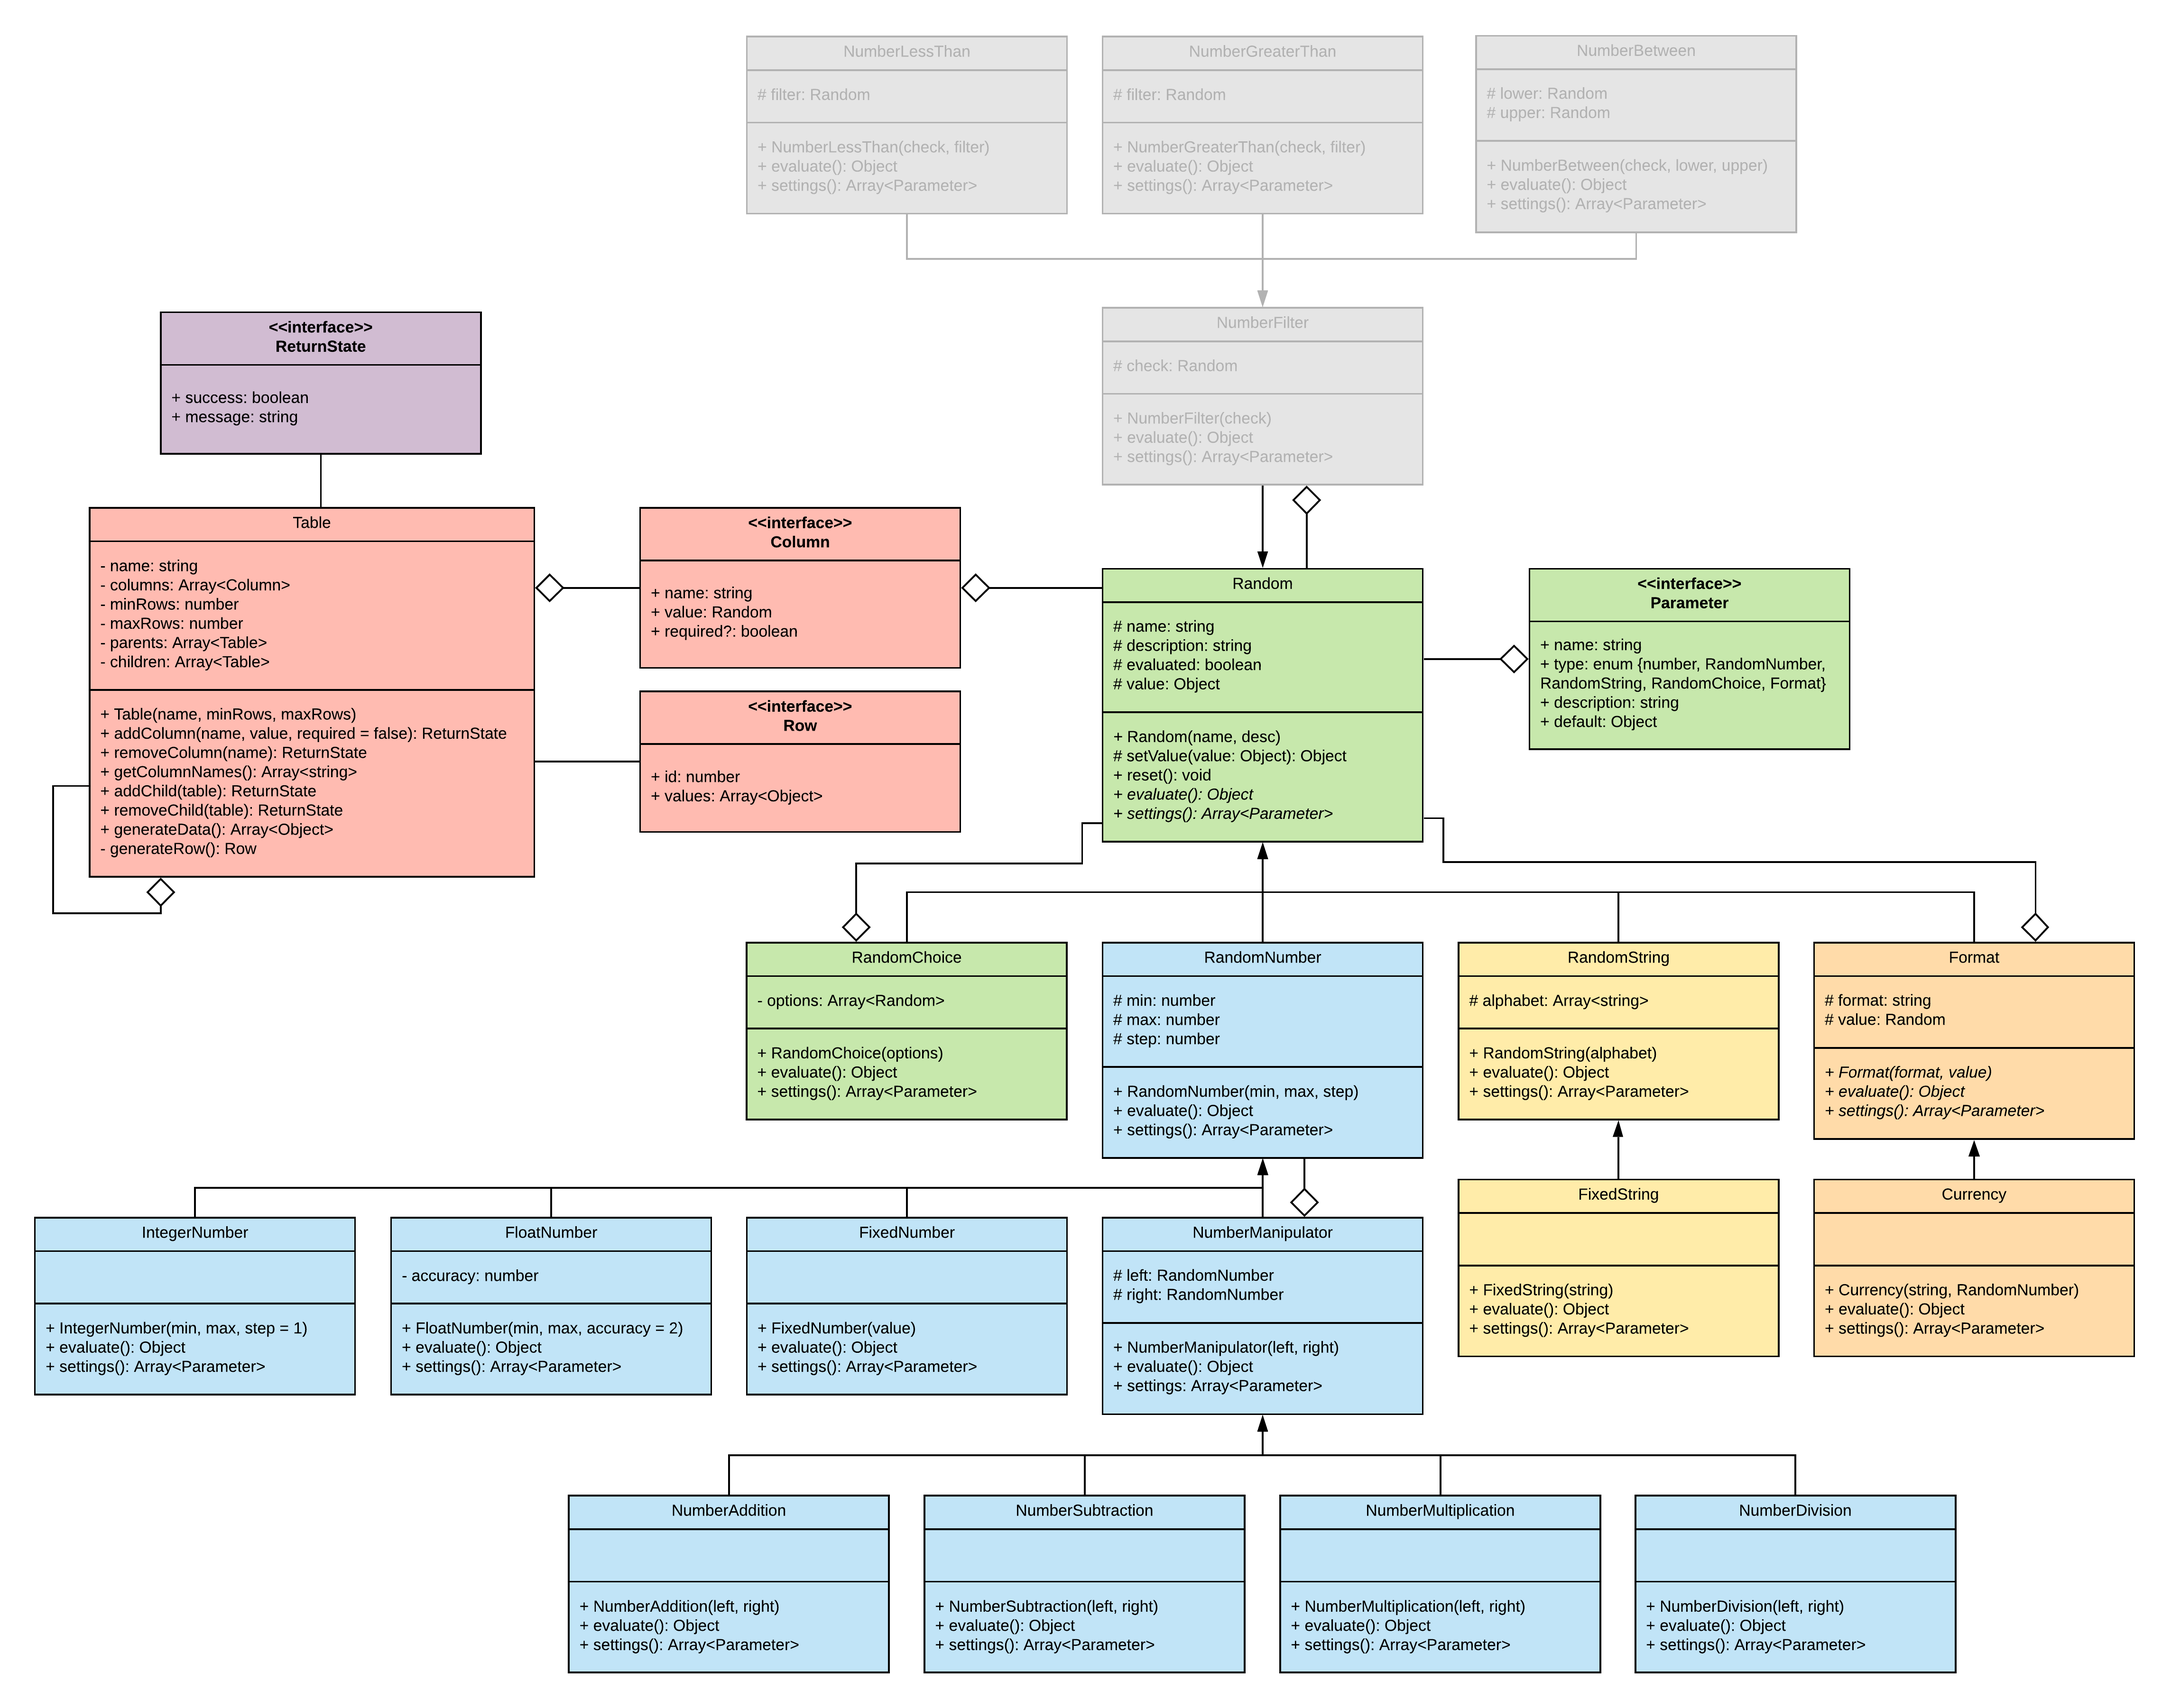
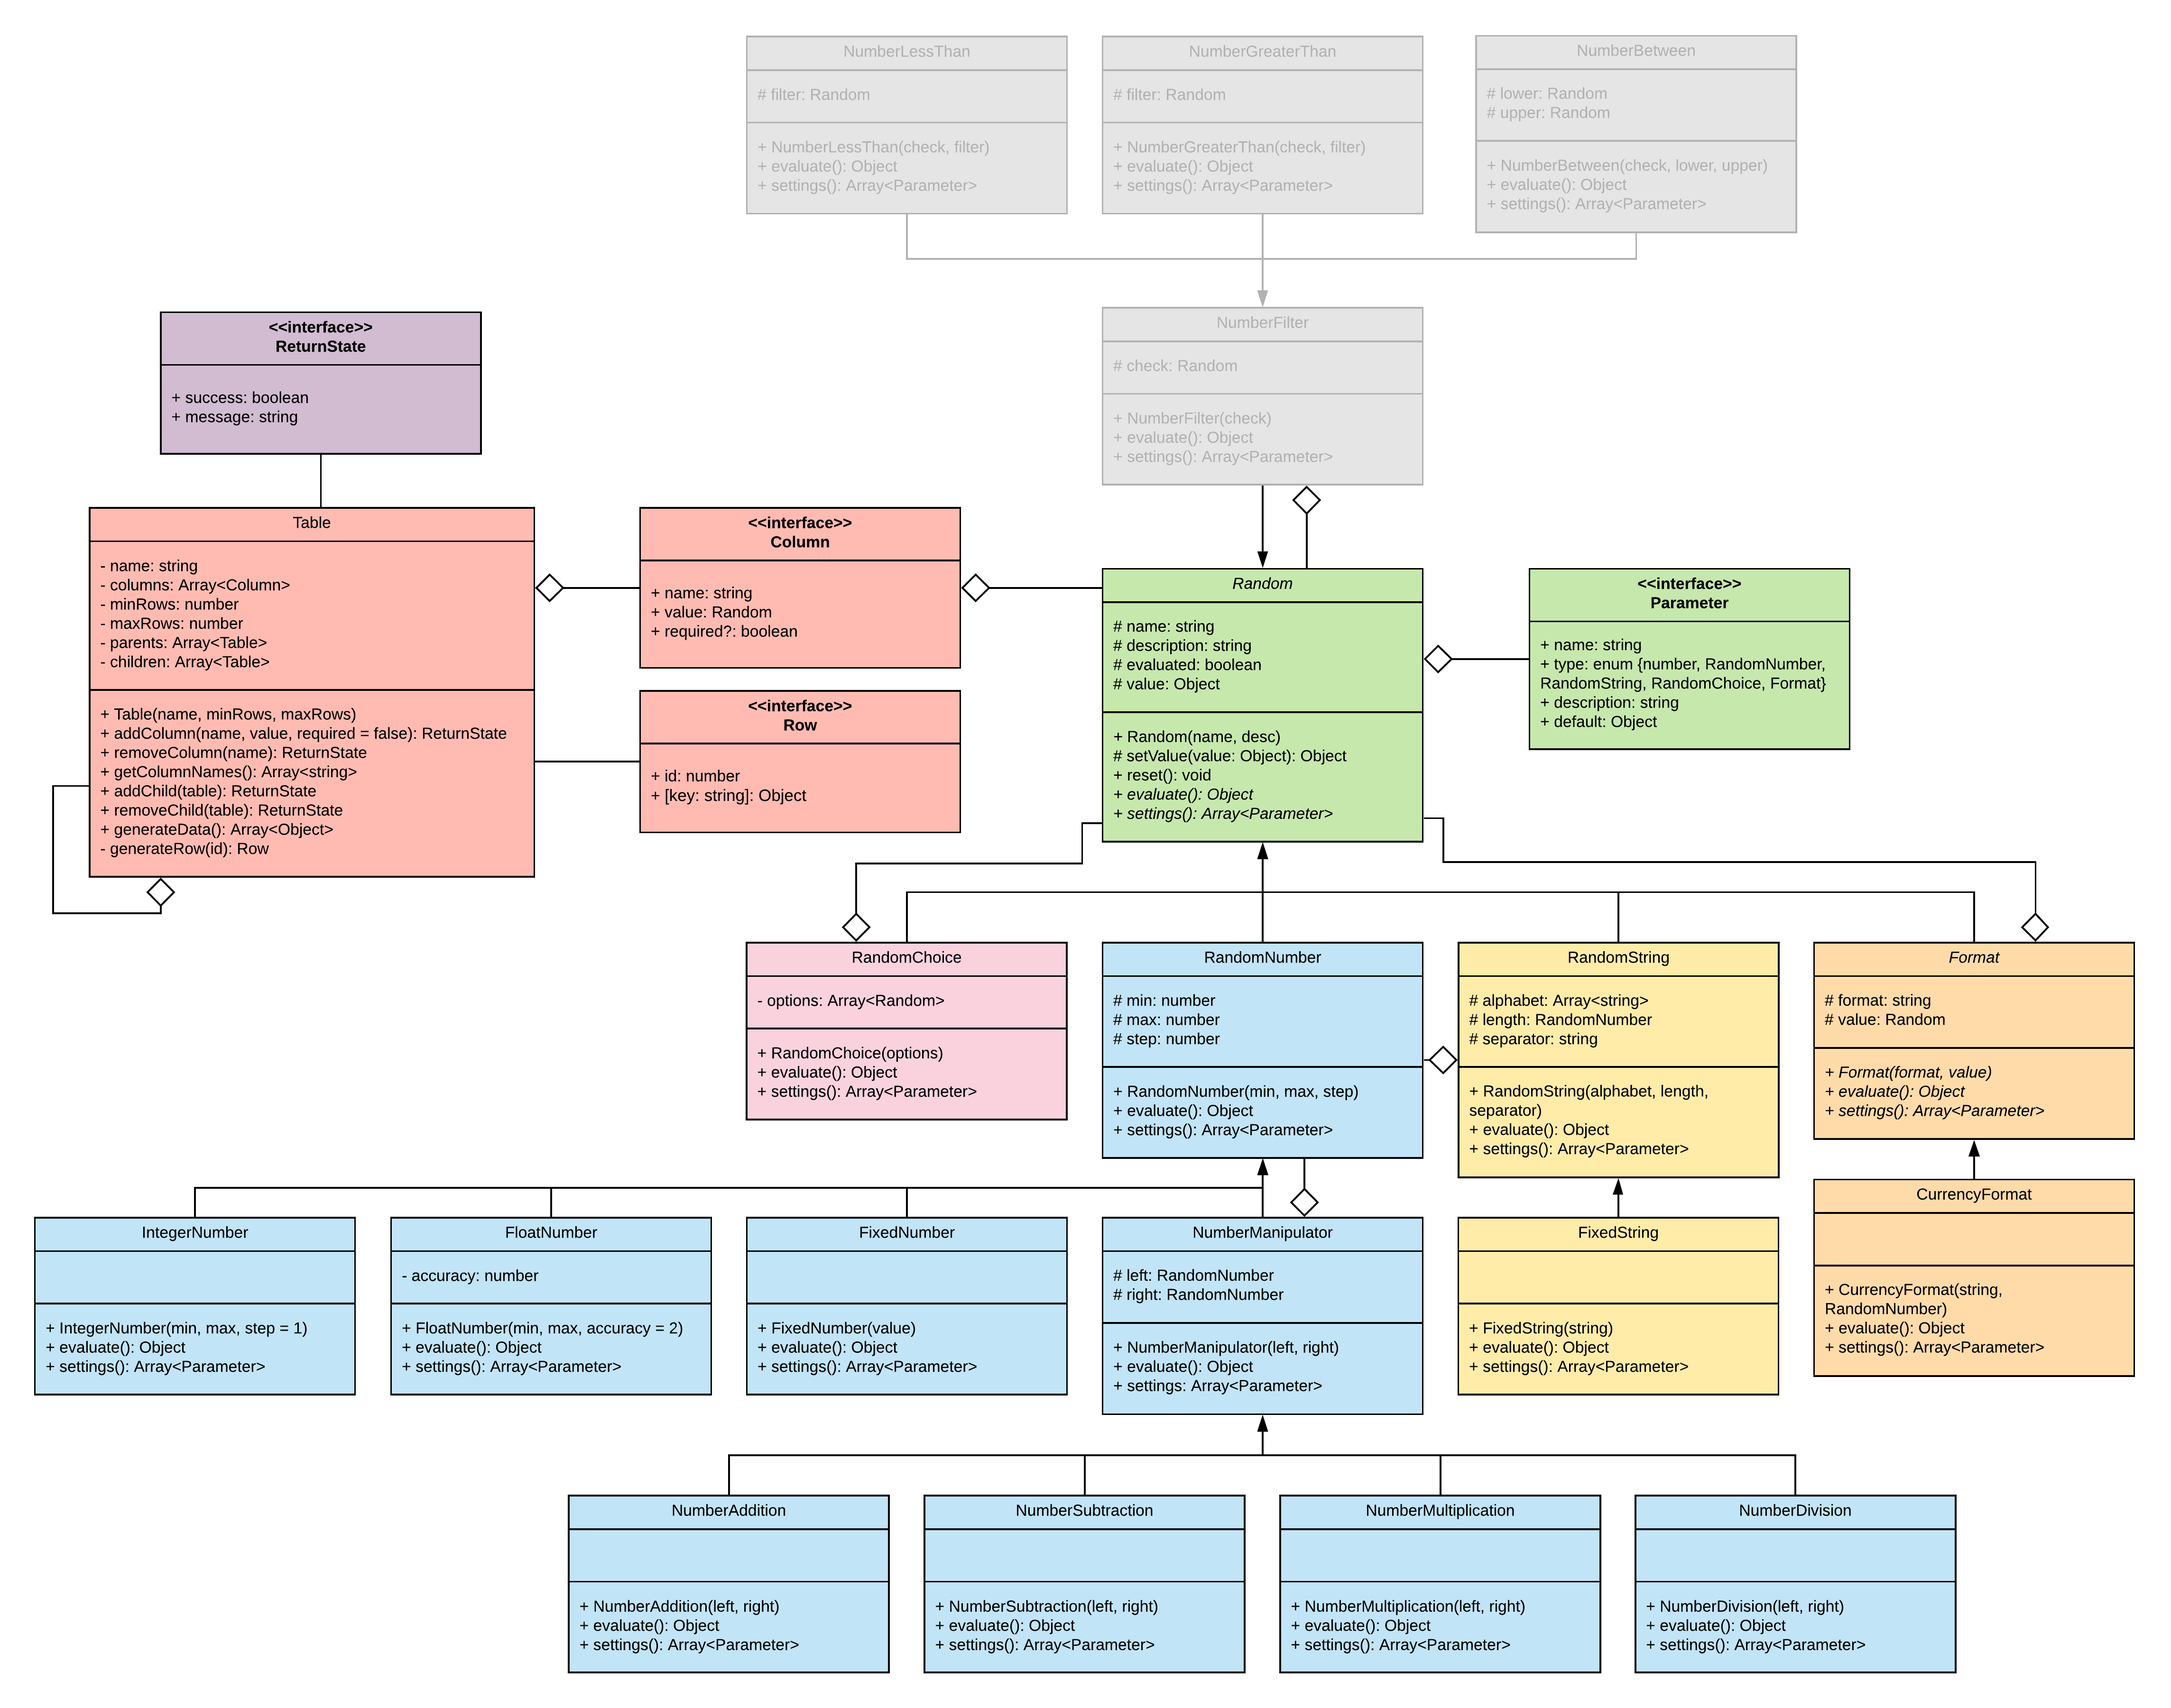
Implemented all the direct derived classes of Random

Changed region(s): [[0.6561, 0.5908, 0.9998, 0.8395], [0.3437, 0.5286, 0.4999, 0.653], [0.3124, 0.4353, 0.3437, 0.4664]]

diff --git a/src/app/models/strings/random-string.ts b/src/app/models/strings/random-string.ts
@@ -1,0 +1,41 @@
+import { Random } from '../random';
+import { Parameter, DataType } from 'src/app/interfaces/parameter';
+import { RandomNumber } from '../numbers/random-number';
+
+export class RandomString extends Random{
+
+  constructor(
+    protected alphabet: Array<string>,
+    protected length: RandomNumber,
+    protected separator: string
+  ) {
+    super('RandomString', 'Creates a random string based on its alphabet')
+  }
+
+  public evaluate(): Object {
+    let length: number = Number(this.length.evaluate());
+    let generated: string = '';
+    let index: number = 0;
+    for (let i = 0; i < length; i++) {
+      index = Math.round(Math.random() * this.alphabet.length - 1);
+      if (index > this.alphabet.length - 1) {
+        index = this.alphabet.length - 1
+      }
+      generated += this.alphabet[index];
+    }
+    return this.setValue(generated);
+  }
+
+  public settings(): Array<Parameter> {
+    return [
+      { name: 'alphabet', type: DataType.string, list: true, description: 'Symbols (characters or strings) to use when creating the string', default: ['a','b','c']},
+      { name: 'length', type: DataType.RandomNumber, list: false, description: 'Number of symbols to concatenate', default: new RandomNumber(4,6,1)},
+      { name: 'separator', type: DataType.string, list: false, description: 'Character or string to put between the concatenated symbols', default: ''}
+    ];
+  }
+
+  public reset(): void {
+    super.reset();
+    this.length.reset();
+  }
+}

diff --git a/src/app/models/formats/currency-format.ts b/src/app/models/formats/currency-format.ts
@@ -1,0 +1,33 @@
+import { Format } from './format';
+import { RandomNumber } from '../numbers/random-number';
+import { Parameter, DataType } from 'src/app/interfaces/parameter';
+
+export class CurrencyFormat extends Format{
+
+  constructor(
+    protected symbol: string,
+    protected value: RandomNumber
+  ){
+    super(symbol, value);
+    this.name = 'CurrencyFormat';
+    this.description = 'Adds a symbol to the front of a number and rounds to the closest two decimals';
+  }
+
+  public evaluate(): Object {
+    let roundedVal:number = Math.floor(Number(this.value.evaluate()) * 100) / 100;
+    let amount = this.symbol + roundedVal;
+    return this.setValue(amount);
+  }
+
+  public settings(): Array<Parameter> {
+    return [
+      { name: 'symbol', type: DataType.string, list: false, description: 'Currency symbol', default: 'R'},
+      { name: 'value', type: DataType.RandomNumber, list: false, description: 'Numerical amount', default: new RandomNumber(0,100,0.05)}
+    ];
+  }
+
+  public reset(): void {
+    super.reset();
+    this.value.reset();
+  }
+}

diff --git a/src/app/models/numbers/random-number.ts b/src/app/models/numbers/random-number.ts
@@ -8,7 +8,7 @@ export class RandomNumber extends Random{
     protected max: number,
     protected step: number
   ) {
-    super('RandomNumber', 'RandomNumber');
+    super('RandomNumber', 'Creates a random value within a set range');
     if (step == 0) step = 1;
     else if (step < 0) step = -step;
     if (min > max) {
@@ -47,9 +47,9 @@ export class RandomNumber extends Random{
 
   public settings(): Array<Parameter> {
     return [
-      { name: 'min', type: DataType.number, description: 'Minimum value', default: 0},
-      { name: 'max', type: DataType.number, description: 'Maximum value', default: 100},
-      { name: 'step', type: DataType.number, description: 'Distance between values', default: 1}
+      { name: 'min', type: DataType.number, list: false, description: 'Minimum value', default: 0},
+      { name: 'max', type: DataType.number, list: false, description: 'Maximum value', default: 100},
+      { name: 'step', type: DataType.number, list: false, description: 'Distance between values', default: 1}
     ];
   }
 }

diff --git a/src/app/models/choices/random-choice.ts b/src/app/models/choices/random-choice.ts
@@ -1,0 +1,34 @@
+import { Random } from '../random';
+import { Parameter, DataType } from 'src/app/interfaces/parameter';
+
+export class RandomChoice extends Random{
+
+  constructor(
+    private options: Array<Random>
+  ) {
+    super('RandomChoice', 'Randomly chooses out of a list of options')
+  }
+
+  public evaluate(): Object {
+    let index: number = Math.round(Math.random() * this.options.length - 1);
+    if (index > this.options.length - 1) {
+      return this.setValue(this.options[this.options.length - 1]);
+    }
+    else {
+      return this.setValue(this.options[index]);
+    }
+  }
+
+  public settings(): Array<Parameter> {
+    return [
+      { name: 'options', type: DataType.Random, list: true, description: 'List of options to choose from', default: 0}
+    ];
+  }
+
+  public reset(): void {
+    super.reset();
+    this.options.forEach(random => {
+      random.reset();
+    });
+  }
+}

diff --git a/src/app/models/formats/format.ts b/src/app/models/formats/format.ts
@@ -1,0 +1,15 @@
+import { Random } from '../random';
+import { Parameter } from 'src/app/interfaces/parameter';
+
+export abstract class Format extends Random{
+
+  constructor(
+    protected format: string,
+    protected value: Random
+  ) {
+    super('Format','Formats a random value')
+  }
+
+  public abstract evaluate(): Object;
+  public abstract settings(): Array<Parameter>;
+}

diff --git a/src/app/models/formats/currency-format.spec.ts b/src/app/models/formats/currency-format.spec.ts
@@ -1,0 +1,8 @@
+import { CurrencyFormat } from './currency-format';
+import { RandomNumber } from '../numbers/random-number';
+
+describe('CurrencyFormat', () => {
+  it('should create an instance', () => {
+    expect(new CurrencyFormat('R', new RandomNumber(1,1,1))).toBeTruthy();
+  });
+});

diff --git a/src/app/models/strings/random-string.spec.ts b/src/app/models/strings/random-string.spec.ts
@@ -1,0 +1,8 @@
+import { RandomString } from './random-string';
+import { RandomNumber } from '../numbers/random-number';
+
+describe('RandomString', () => {
+  it('should create an instance', () => {
+    expect(new RandomString([''], new RandomNumber(1,1,1), '')).toBeTruthy();
+  });
+});

diff --git a/src/app/models/choices/random-choice.spec.ts b/src/app/models/choices/random-choice.spec.ts
@@ -1,0 +1,8 @@
+import { RandomChoice } from './random-choice';
+import { RandomNumber } from '../numbers/random-number';
+
+describe('RandomChoice', () => {
+  it('should create an instance', () => {
+    expect(new RandomChoice([new RandomNumber(1,1,1)])).toBeTruthy();
+  });
+});

diff --git a/src/app/interfaces/parameter.ts b/src/app/interfaces/parameter.ts
@@ -1,8 +1,9 @@
-export enum DataType {number, Random}
+export enum DataType {number, string, Random, RandomNumber, RandomString, RandomChoice, Format}
 
 export interface Parameter {
   name: string,
   type: DataType,
+  list: boolean,
   description: string,
   default: Object
 }

diff --git a/src/app/models/formats/format.spec.ts b/src/app/models/formats/format.spec.ts
@@ -1,0 +1,4 @@
+import { Format } from './format';
+
+describe('Format', () => {
+});
